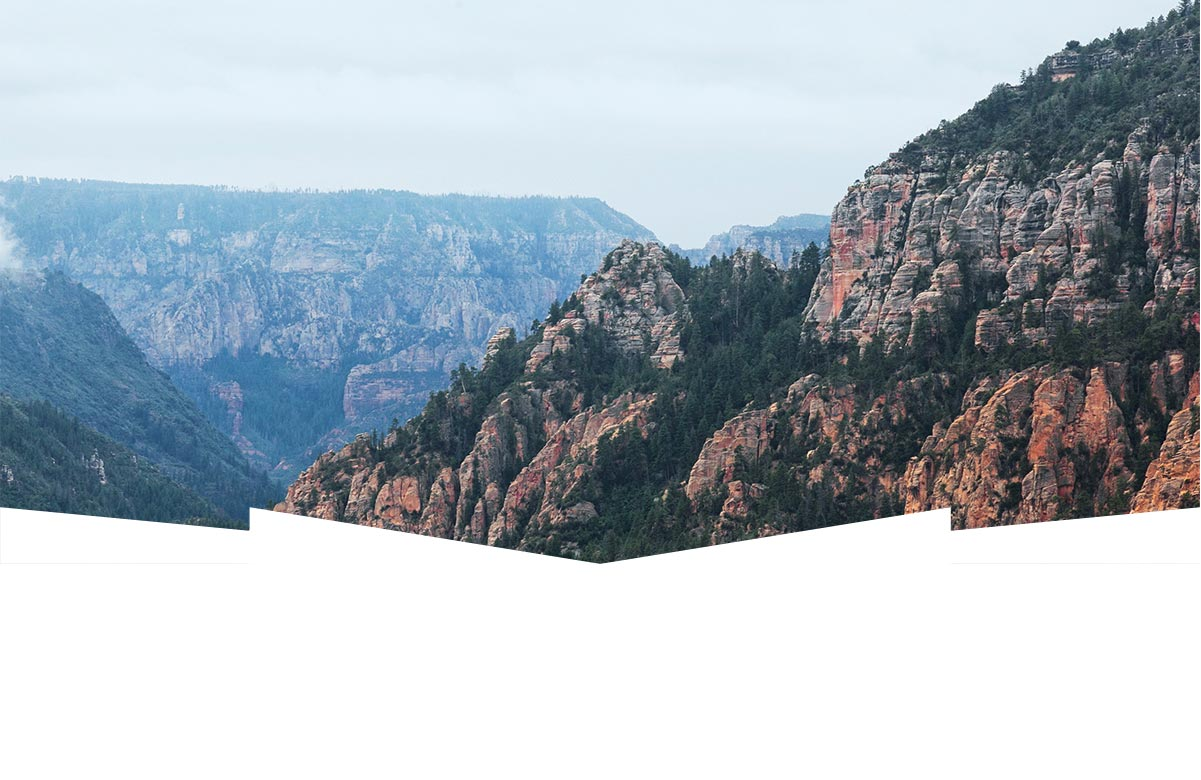
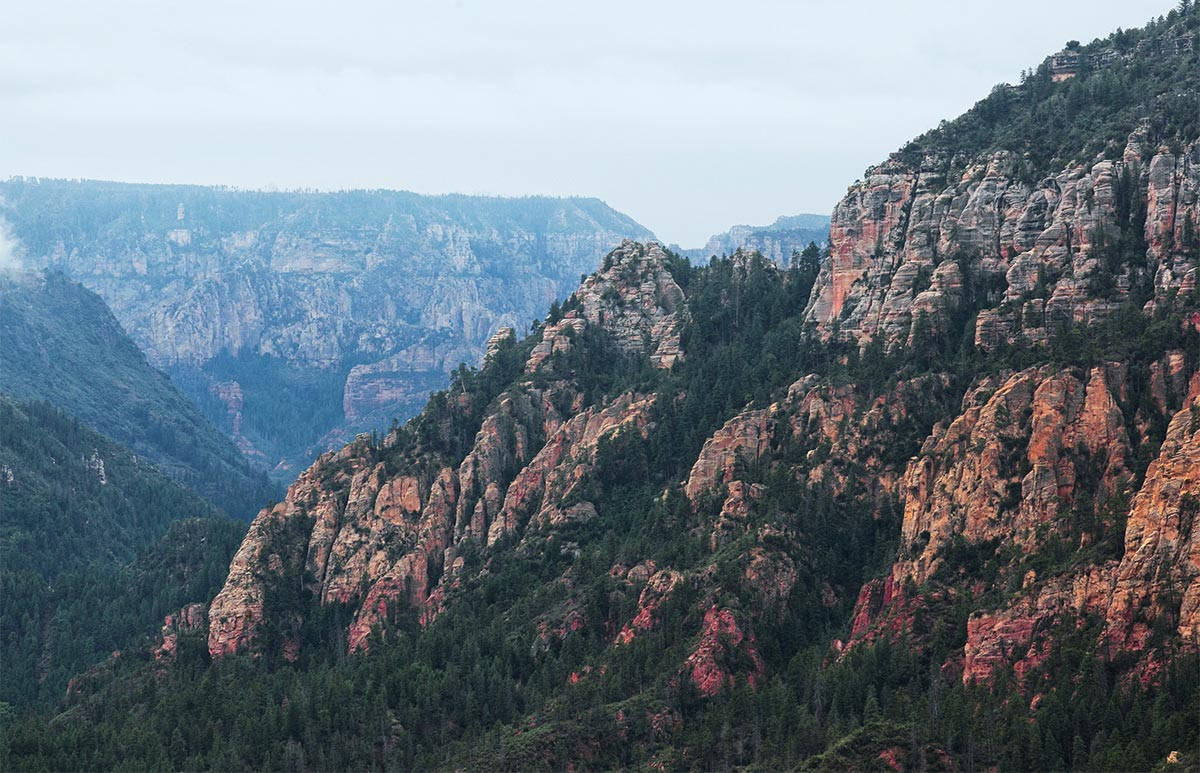
scss task 1 fix #1

diff --git a/css/style.css b/css/style.css
@@ -1,1 +1,1 @@
-body{height:2765px;margin:0;padding:0;font-family:"PT Sans",sans-serif;font-size:14px;font-weight:normal;line-height:1.86em;text-transform:uppercase}.wrapper{width:1200px;margin:0 auto}.page-header{height:56px;background-color:#fff}.top-menu{position:relative;margin:0;padding:18px;list-style:none}.top-menu__item{display:inline-block;margin-right:9%;margin-left:4%;font-weight:bold;vertical-align:middle}.top-menu__item:nth-child(3){margin-left:23%}.top-menu__item:last-child{margin-right:0}.top-menu__item-link{color:#000;text-decoration:none}.top-menu__logo-link{position:absolute;margin-left:531px}.welcome{width:100%;height:722px;padding-top:20px;background:#fff url("../img/bg-welcome.jpg") no-repeat 0 -56px}.welcome__img{display:block;margin:0 auto;padding-top:56px}.welcome__info{width:500px;margin:0 auto;margin-top:140px;font-size:1.5em;text-align:center}.welcome__reasons{color:#333;text-align:center}.features{height:1090px;background-color:#fff}.features-item{height:255px}.features-item-container{float:left;width:280px;padding:49px 60px;color:#fff;text-align:center;background-color:#81b3d2}.features-item__title{width:160px;margin:0 auto;padding:0;font-size:1.5em;font-weight:bold;text-align:center}.features-item__number{line-height:1.5em}.features-item__description{line-height:1.5em}.features-item--image-left .features-item-container{float:right}.features-item-small-container{max-height:255px;padding:25px;background-color:#eee}.features-item-small{display:inline-block;padding:40px;text-align:center;vertical-align:top}.features-item-small:nth-child(2){margin:0 30px}.features-item-small__title{width:160px;margin:0 auto;padding:0;font-size:1.5em;font-weight:bold;text-align:center}.features-item-small__number{line-height:1.5em}.features-item-small__description{width:280px;line-height:1.5em}.advantages{height:260px;margin:20px 0;padding:10px}.advantages__item{display:inline-block;max-width:300px;max-height:200px;padding:30px 45px;text-align:center;vertical-align:middle;background-color:#fff}.advantages__item-title{font-size:1.5em;font-weight:bold}.advantages__item-description{line-height:1.5em}.visit-us{z-index:1;width:100%;height:815px;margin-left:-40px;padding:40px;background:url("../img/bg-visit-us-map.jpg") no-repeat 40px 280px}.visit-us__title{font-size:2.14em;font-weight:bold;text-align:center}.visit-us__info{width:400px;margin:0 auto;line-height:24px;text-align:center}.hotel-search{height:595px;margin-top:50px}.hotel-search__header{width:500px;height:60px;margin:0 auto;padding:10px 20px;font-size:1.5em;font-weight:bold;color:#fff;text-align:center;background-color:#766357}.hotel-search__form{width:440px;height:280px;margin:0 auto;padding:50px;background-color:#fff;box-shadow:1px 1px 2px #333}.hotel-search__form-label{padding:15px;font-weight:bold}.hotel-search__form-input{position:relative;height:38px;margin-bottom:40px;font-size:1em;font-weight:bold;text-align:center;background-color:#f2f2f2;border:none}.hotel-search__form-input--date{width:300px;margin-left:2%}.hotel-search__form-input--date:after{position:absolute;top:10px;right:3%;width:22px;height:20px;background:url("../img/icon-hotel-search-form-calendar.png") no-repeat 0 0;content:"";transform:rotate(-90deg)}.hotel-search__form-input--number{width:22%;margin-left:5%}.hotel-search__form-input--number:before,.hotel-search__form-input--number:after{position:absolute;top:0;left:0;width:11px;height:11px;color:#000;background:#fff url("../img/icon-hotel-search-form-minus.png") no-repeat 0 0;content:""}.hotel-search__form-input--number:after{background:#fff url("../img/icon-hotel-search-form-plus.png") no-repeat 0 0}.hotel-search__form-submit{width:440px;height:60px;font-size:1.5em;font-weight:bold;color:#fff;text-transform:uppercase;background-color:#81b3d2;border:0}.page-footer{width:1160px;height:40px;margin-top:-50px;padding:45px 20px;background-color:rgba(255,255,255,0.9)}.page-footer .twitter-tag{display:inline-block;width:15%;margin-left:10%;font-size:1.5em;font-weight:bold;text-align:center;vertical-align:middle}.page-footer .social-icons{display:inline-block;width:150px;margin-left:18%;vertical-align:middle}.page-footer .social-icons__item-link-img{display:inline-block;width:45px;height:45px;vertical-align:bottom;background:#81b3d2 url("../img/spr-social-icons.png") no-repeat 15px 50%}.page-footer .social-icons__item-link-img--fb{background-position:-40px 50%}.page-footer .social-icons__item-link-img--yt{background-position:-91px 50%}.page-footer .copyright{display:inline-block;width:18%;margin-left:20%;vertical-align:middle}.page-footer .copyright__by-img,.page-footer .copyright__for-img{display:inline-block;width:30px;height:32px;margin-top:15px;vertical-align:bottom;background:url("../img/spr-copyright-icons.png") no-repeat 0 0}.page-footer .copyright__for-img{background-position:-75px 0}
+body{height:2765px;margin:0;padding:0;font-family:"PT Sans",sans-serif;font-size:14px;font-weight:normal;line-height:1.86em;text-transform:uppercase}.wrapper{width:1200px;margin:0 auto}.page-header{height:56px;background-color:#fff}.top-menu{position:relative;margin:0;list-style:none}.top-menu__item{display:inline-block;margin-right:115px;padding:15px;font-weight:bold;vertical-align:top}.top-menu__item:last-child{margin-right:0}.top-menu__item-link{color:#000;text-decoration:none}.top-menu__logo-link{display:inline-block;margin-top:-15px;padding-bottom:-40px}.welcome{position:relative;z-index:-1;width:100%;height:700px;padding-top:20px;background:#fff url("../img/bg-welcome.jpg") no-repeat 0 -56px}.welcome__img{display:block;margin:0 auto;padding-top:60px}.welcome__text{margin:0;margin-top:90px;padding:0;font-size:7em;font-weight:700;color:#fff;text-align:center;letter-spacing:0.2em}.welcome__info{width:500px;margin:0 auto;margin-top:30px;font-size:1.5em;text-align:center}.welcome__reasons{margin-top:40px;color:#333;text-align:center}.welcome-container{position:relative;width:100%;height:200px;margin-top:85px;padding-top:10px;background-color:#fff}.welcome-container:before{position:absolute;top:-57px;left:0;width:100%;height:70px;background:url("../img/bg-welcome-mask.png") no-repeat 0 0;content:""}.features{height:1090px;background-color:#fff}.features-item{height:255px}.features-item-container{float:left;width:280px;padding:49px 60px;color:#fff;text-align:center;background-color:#81b3d2}.features-item__title{width:160px;margin:0 auto;padding:0;font-size:1.5em;font-weight:bold;text-align:center}.features-item__number{line-height:1.5em}.features-item__description{line-height:1.5em}.features-item--image-left .features-item-container{float:right}.features-item-small-container{max-height:255px;padding:25px;background-color:#eee}.features-item-small{display:inline-block;padding:40px;text-align:center;vertical-align:top}.features-item-small:nth-child(2){margin:0 30px}.features-item-small__title{width:160px;margin:0 auto;padding:0;font-size:1.5em;font-weight:bold;text-align:center}.features-item-small__number{line-height:1.5em}.features-item-small__description{width:280px;line-height:1.5em}.advantages{height:260px;margin:20px 0}.advantages__item{display:inline-block;width:33.3333%;min-height:200px;margin:-2px;padding:30px 0;text-align:center;vertical-align:middle;background-color:#fff}.advantages__item-title{font-size:1.5em;font-weight:bold}.advantages__item-description{width:290px;margin:0 auto;line-height:1.5em;text-align:center}.visit-us{z-index:1;width:100%;height:815px;margin-left:-40px;padding:40px;background:url("../img/bg-visit-us-map.jpg") no-repeat 40px 280px}.visit-us__title{font-size:2.14em;font-weight:bold;text-align:center}.visit-us__info{width:400px;margin:0 auto;line-height:24px;text-align:center}.hotel-search{height:595px;margin-top:50px}.hotel-search__header{width:500px;height:60px;margin:0 auto;padding:10px 20px;font-size:1.5em;font-weight:bold;color:#fff;text-align:center;background-color:#766357}.hotel-search__form{width:440px;height:280px;margin:0 auto;padding:50px;background-color:#fff;box-shadow:1px 1px 2px #333}.hotel-search__form-field{margin-bottom:40px}.hotel-search__form-field-label{padding:15px;font-weight:bold}.hotel-search__form-field-input{position:relative;height:38px;font-size:1em;font-weight:bold;text-align:center;background-color:#f2f2f2;border:none}.hotel-search__form-field-input--date{float:right;width:290px;padding:0 10px;text-align:left}.hotel-search__form-field-input--date:after{position:absolute;top:10px;right:3%;width:22px;height:20px;background:url("../img/icon-hotel-search-form-calendar.png") no-repeat 0 0;content:"";transform:rotate(-90deg)}.hotel-search__form-field-input--number{width:100px;margin-left:5px}.hotel-search__form-field:nth-child(3) label:first-child{margin-right:18px}.hotel-search__form-field:nth-child(3) label:nth-child(3){margin-right:5px}.hotel-search__form-field:nth-child(3) input{position:relative;padding-left:11px}.hotel-search__form-field:nth-child(3) input:after{position:absolute;top:10px;right:3%;width:22px;height:20px;background:url("../img/icon-hotel-search-form-minus.png") no-repeat 0 0;content:"";transform:rotate(-90deg)}.hotel-search__form-submit{width:440px;height:60px;font-size:1.5em;font-weight:bold;color:#fff;text-transform:uppercase;background-color:#81b3d2;border:0}.page-footer{width:1160px;height:40px;margin-top:-50px;padding:45px 20px;background-color:rgba(255,255,255,0.9)}.page-footer .twitter-tag{display:inline-block;width:15%;margin-left:120px;font-size:1.5em;font-weight:bold;text-align:center;vertical-align:middle}.page-footer .social-icons{display:inline-block;width:150px;margin-left:210px;vertical-align:middle}.page-footer .social-icons__item-link-img{display:inline-block;width:45px;height:45px;vertical-align:bottom;background:#81b3d2 url("../img/spr-social-icons.png") no-repeat 15px 50%}.page-footer .social-icons__item-link-img--fb{background-position:-40px 50%}.page-footer .social-icons__item-link-img--yt{background-position:-91px 50%}.page-footer .copyright{display:inline-block;width:18%;margin-left:220px;vertical-align:middle}.page-footer .copyright__by-img,.page-footer .copyright__for-img{display:inline-block;width:30px;height:32px;margin-top:15px;vertical-align:bottom;background:url("../img/spr-copyright-icons.png") no-repeat 0 0}.page-footer .copyright__for-img{background-position:-75px 0}

diff --git a/scss/style.scss b/scss/style.scss
@@ -32,17 +32,13 @@ body {
 .top-menu {
 	position: relative;
 	margin: 0;
-	padding: 18px;
 	list-style: none;
 	&__item {
 		display: inline-block;
-		margin-right: 9%;
-		margin-left: 4%;
+		margin-right: 115px;
+		padding: 15px;
 		font-weight: bold;
-		vertical-align: middle;
-		&:nth-child(3) {
-			margin-left: 23%;
-		}
+		vertical-align: top;
 		&:last-child {
 			margin-right: 0;
 		}
@@ -52,31 +48,62 @@ body {
 		}
 	}
 	&__logo-link {
-		position: absolute;
-		margin-left: 1200px / 2 - 138 / 2;
+		display: inline-block;
+		margin-top: -15px;
+		padding-bottom: -40px;
 	}
 }
 
 .welcome {
+	position: relative;
+	z-index: -1;
 	width: 100%;
-	height: 722px;
+	height: 700px;
 	padding-top: 20px;
 	background: $page-header-bg url("../img/bg-welcome.jpg") no-repeat 0 -56px;
 	&__img {
 		display: block;
 		margin: 0 auto;
-		padding-top: 56px;
+		padding-top: 60px;
+	}
+	&__text {
+		margin: 0;
+		margin-top: 90px;
+		padding: 0;
+		font-size: 7em;
+		font-weight: 700;
+		color: $page-header-bg;
+		text-align: center;
+		letter-spacing: .2em;
 	}
 	&__info {
 		width: 500px;
 		margin: 0 auto;
-		margin-top: 140px;
+		margin-top: 30px;
 		font-size: 1.5em;
 		text-align: center;
 	}
 	&__reasons {
+		margin-top: 40px;
 		color: $reasons-font-color;
 		text-align: center;
+	}
+	&-container {
+		position: relative;
+		width: 100%;
+		height: 200px;
+		margin-top: 85px;
+		padding-top: 10px;
+		background-color: #fff;
+		&:before {
+			position: absolute;
+			top: -57px;
+			left: 0;
+			width: 100%;
+			height: 70px;
+			background: url("../img/bg-welcome-mask.png") no-repeat 0 0;
+			content: "";
+		}
 	}
 }
 
@@ -147,12 +174,12 @@ body {
 .advantages {
 	height: 260px;
 	margin: 20px 0;
-	padding: 10px;
 	&__item {
 		display: inline-block;
-		max-width: 300px;
-		max-height: 200px;
-		padding: 30px 45px;
+		width: 33.3333%;
+		min-height: 200px;
+		margin: -2px;
+		padding: 30px 0;
 		text-align: center;
 		vertical-align: middle;
 		background-color: $page-header-bg;
@@ -161,7 +188,10 @@ body {
 			font-weight: bold;
 		}
 		&-description {
+			width: 290px;
+			margin: 0 auto;
 			line-height: $line-height-small;
+			text-align: center;
 		}
 	}
 }
@@ -207,49 +237,63 @@ body {
 		padding: 50px;
 		background-color: $page-header-bg;
 		box-shadow: 1px 1px 2px $reasons-font-color;
-		&-label {
-			padding: 15px;
-			font-weight: bold;
-		}
-		&-input {
-			position: relative;
-			height: 38px;
+		&-field {
 			margin-bottom: 40px;
-			font-size: 1em;
-			font-weight: bold;
-			text-align: center;
-			background-color: $hotel-search-form-input-color;
-			border: none;
-			&--date {
-				width: 300px;
-				margin-left: 2%;
-				&:after {
-					position: absolute;
-					top: 10px;
-					right: 3%;
-					width: 22px;
-					height: 20px;
-					background: url("../img/icon-hotel-search-form-calendar.png") no-repeat 0 0;
-					content: "";
-					transform: rotate(-90deg);
+			&-label {
+				padding: 15px;
+				font-weight: bold;
+			}
+			&-input {
+				position: relative;
+				height: 38px;
+				font-size: 1em;
+				font-weight: bold;
+				text-align: center;
+				background-color: $hotel-search-form-input-color;
+				border: none;
+				&--date {
+					float: right;
+					width: 290px;
+					padding: 0 10px;
+					text-align: left;
+					&:after {
+						position: absolute;
+						top: 10px;
+						right: 3%;
+						width: 22px;
+						height: 20px;
+						background: url("../img/icon-hotel-search-form-calendar.png") no-repeat 0 0;
+						content: "";
+						transform: rotate(-90deg);
+					}
+				}
+				&--number {
+					width: 100px;
+					margin-left: 5px;
 				}
 			}
-			&--number {
-				width: 22%;
-				margin-left: 5%;
-				&:before {
-					position: absolute;
-					top: 0;
-					left: 0;
-					width: 11px;
-					height: 11px;
-					color: $top-menu-link-color;
-					background: $page-header-bg url("../img/icon-hotel-search-form-minus.png") no-repeat 0 0;
-					content: "";
+			&:nth-child(3) {
+				label {
+					&:first-child {
+						margin-right: 18px;
+					}
+					&:nth-child(3) {
+						margin-right: 5px;
+					}
 				}
-				&:after {
-					@extend .hotel-search__form-input--number:before;
-					background: $page-header-bg url("../img/icon-hotel-search-form-plus.png") no-repeat 0 0;
+				input {
+					position: relative;
+					padding-left: 11px;
+					&:after {
+						position: absolute;
+						top: 10px;
+						right: 3%;
+						width: 22px;
+						height: 20px;
+						background: url("../img/icon-hotel-search-form-minus.png") no-repeat 0 0;
+						content: "";
+						transform: rotate(-90deg);
+					}
 				}
 			}
 		}
@@ -275,7 +319,7 @@ body {
 	.twitter-tag {
 		display: inline-block;
 		width: 15%;
-		margin-left: 10%;
+		margin-left: 120px;
 		font-size: 1.5em;
 		font-weight: bold;
 		text-align: center;
@@ -284,7 +328,7 @@ body {
 	.social-icons {
 		display: inline-block;
 		width: 150px;
-		margin-left: 18%;
+		margin-left: 210px;
 		vertical-align: middle;
 		&__item-link-img {
 			display: inline-block;
@@ -303,7 +347,7 @@ body {
 	.copyright {
 		display: inline-block;
 		width: 18%;
-		margin-left: 20%;
+		margin-left: 220px;
 		vertical-align: middle;
 		&__by-img {
 			display: inline-block;
@@ -314,8 +358,8 @@ body {
 			background: url("../img/spr-copyright-icons.png") no-repeat 0 0;
 		}
 		&__for-img {
-			@extend .copyright__by-img;
 			background-position: -75px 0;
+			@extend .copyright__by-img;
 		}
 	}
 }

diff --git a/index.html b/index.html
@@ -11,15 +11,17 @@
 	<div class="wrapper">
 		<header class="page-header">
 			<nav class="top-menu-nav">
-				<a class="top-menu__logo-link" href="#">
-					<img class="top-menu__logo" src="img/icon-top-menu.png" height="70" width="138" alt="logo">
-				</a>
 				<ul class="top-menu">
 					<li class="top-menu__item">
 						<a  class="top-menu__item-link" href="#">Информация</a>
 					</li>
 					<li class="top-menu__item">
 						<a  class="top-menu__item-link" href="#">Фото и видео</a>
+					</li>
+					<li class="top-menu__item">
+						<a class="top-menu__logo-link" href="#">
+							<img class="top-menu__logo" src="img/icon-top-menu.png" height="70" width="138" alt="logo">
+						</a>
 					</li>
 					<li class="top-menu__item">
 						<a  class="top-menu__item-link" href="#">Карта штата</a>
@@ -32,10 +34,12 @@
 		</header>
 		<div class="welcome">
 			<img class="welcome__img" src="img/text-welcome-1.png" height="86" width="256" alt="welcome-1">
-			<img class="welcome__img" src="img/text-welcome-2.png" height="78" width="458" alt="welcome-2">
+			<h1 class="welcome__text">SEDONA</h1>
 			<img class="welcome__img" src="img/text-welcome-3.png" height="80" width="295" alt="welcome-3">
-			<h3 class="welcome__info">Седона - небольшой городок в Аризоне, заслуживающий большего!</h3>
-			<p class="welcome__reasons">Рассмотрим 5 причин, по которым Седона круче чем Гранд Каньон!</p>
+			<div class="welcome-container">
+				<h3 class="welcome__info">Седона - небольшой городок в Аризоне, заслуживающий большего!</h3>
+				<p class="welcome__reasons">Рассмотрим 5 причин, по которым Седона круче чем Гранд Каньон!</p>
+			</div>
 		</div>
 		<div class="features">
 			<section class="features-item">
@@ -97,14 +101,20 @@
 					<p class="hotel-search__header-title">Поиск гостиницы в Седоне</p>
 				</header>
 				<form class="hotel-search__form" action="#">
-					<label class="hotel-search__form-label" for="dateIn">Дата заезда:</label>
-					<input class="hotel-search__form-input hotel-search__form-input--date" type="date" name="dateIn" value=""><br>
-					<label class="hotel-search__form-label" for="dateOut">Дата выезда:</label>
-					<input class="hotel-search__form-input hotel-search__form-input--date" type="date" name="dateOut"><br>
-					<label class="hotel-search__form-label" for="adultNumber">Взрослые:</label>
-					<input class="hotel-search__form-input hotel-search__form-input--number" type="number" name="adultNumber">
-					<label class="hotel-search__form-label" for="childrenNumber">Дети:</label>
-					<input class="hotel-search__form-input hotel-search__form-input--number" type="number" name="childrenNumber"><br>
+					<div class="hotel-search__form-field">
+						<label class="hotel-search__form-field-label" for="dateIn">Дата заезда:</label>
+						<input class="hotel-search__form-field-input hotel-search__form-field-input--date" type="date" name="dateIn" value="">
+					</div>
+					<div class="hotel-search__form-field">
+						<label class="hotel-search__form-field-label" for="dateOut">Дата выезда:</label>
+						<input class="hotel-search__form-field-input hotel-search__form-field-input--date" type="date" name="dateOut">
+					</div>
+					<div class="hotel-search__form-field">
+						<label class="hotel-search__form-field-label" for="adultNumber">Взрослые:</label>
+						<input class="hotel-search__form-field-input hotel-search__form-field-input--number" type="number" name="adultNumber">
+						<label class="hotel-search__form-field-label" for="childrenNumber">Дети:</label>
+						<input class="hotel-search__form-field-input hotel-search__form-field-input--number" type="number" name="childrenNumber">
+					</div>
 					<input class="hotel-search__form-submit" type="submit" value="Найти">
 				</form>
 			</div>
